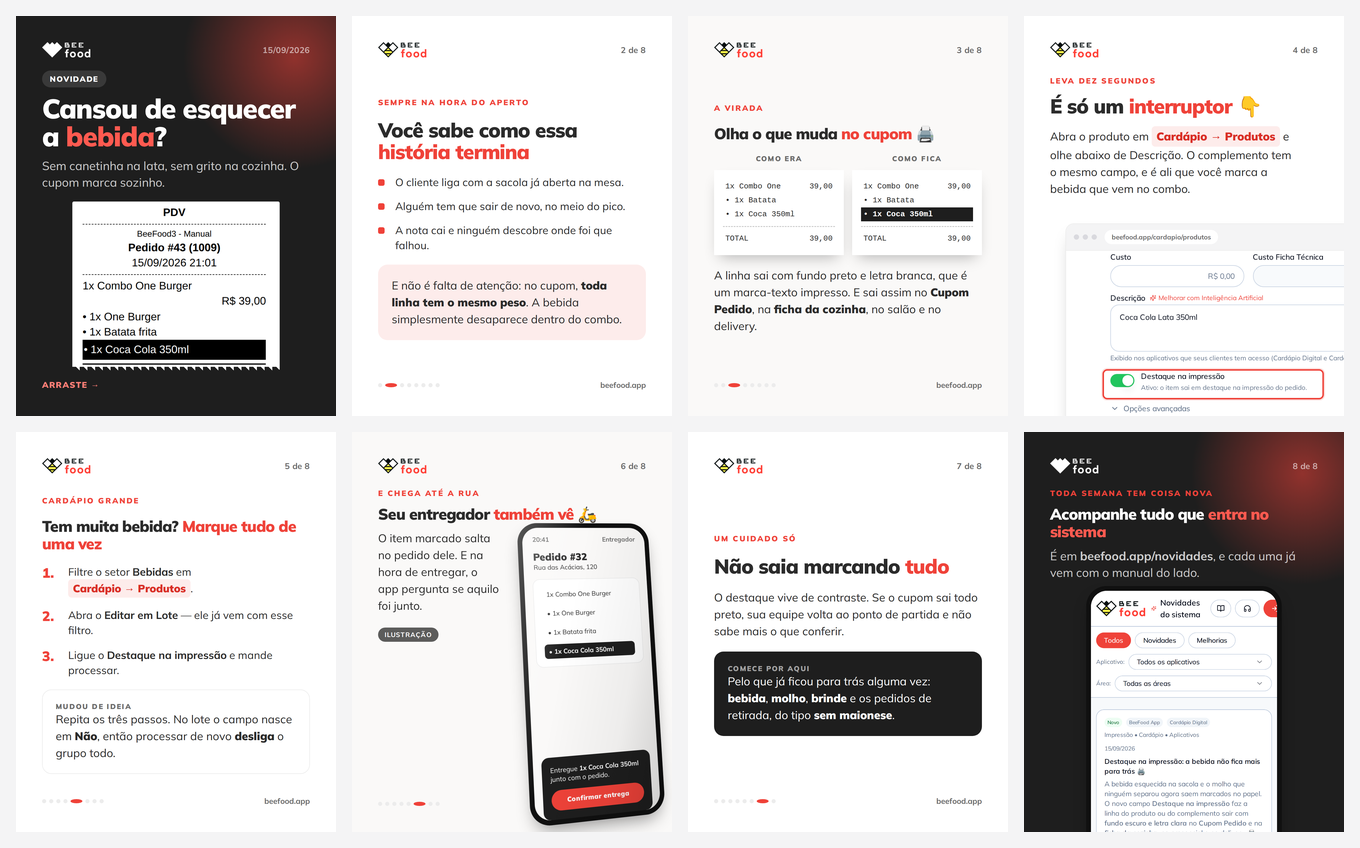
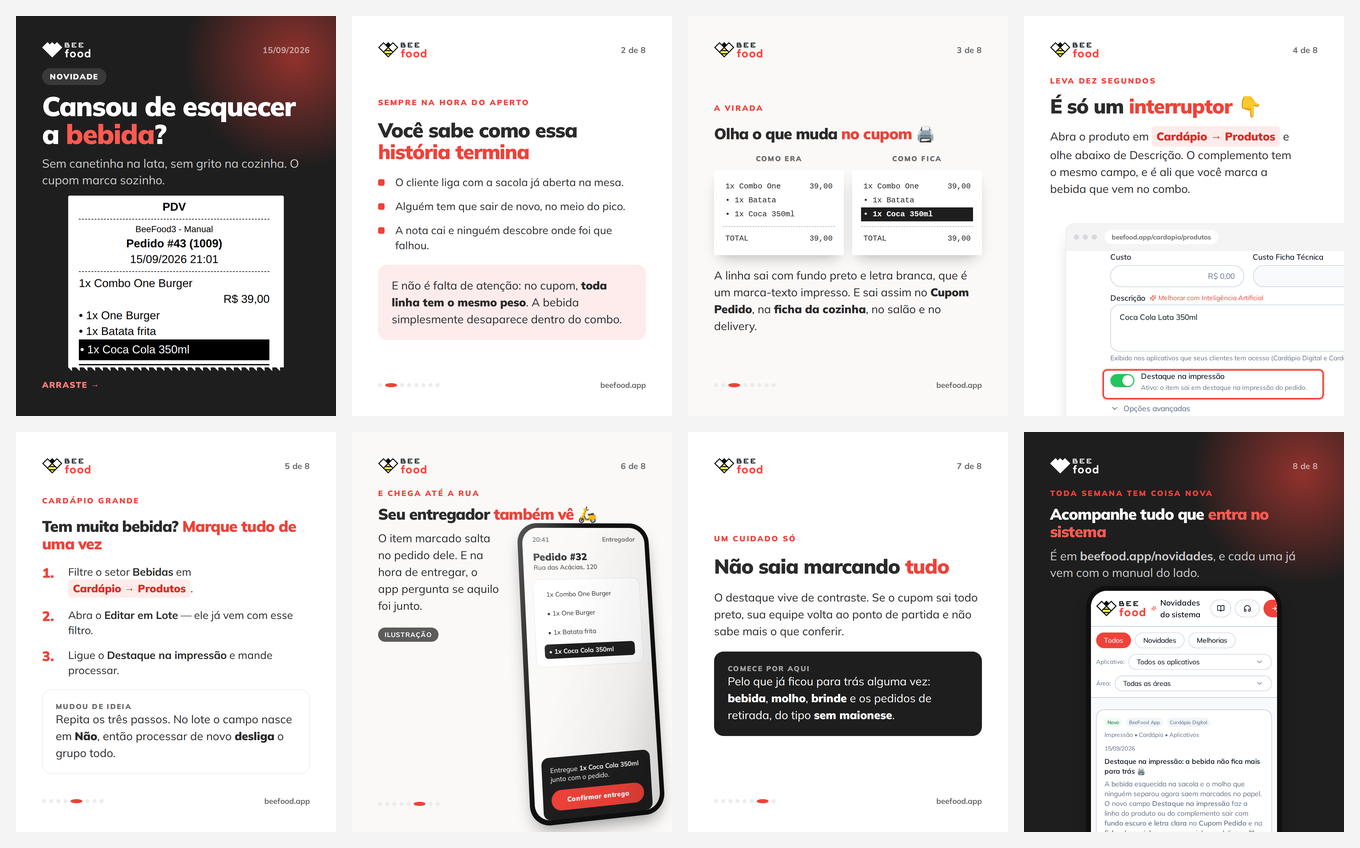
carrossel: registra a regra da faixa na memoria, na skill e no roteiro
- cupom da capa vai a 728 px, o maximo entre o subtitulo e o Arraste
- MEMORIA/SKILL/roteiro-e-copy ganham a secao 'onde a imagem fica na faixa'
- roteiro do exemplo explica por que o 3D mudou de slide e por que a janela do
  slide 4 continua sangrando so pela direita

Changed region(s): [[0.0309, 0.0613, 0.2162, 0.4599]]

diff --git a/carrosseis/destaque-impressao/slides/01-capa.html b/carrosseis/destaque-impressao/slides/01-capa.html
@@ -4,7 +4,7 @@
     <span class="data">15/09/2026</span>
   </div>
 
-  <div class="pilha g24" style="margin-top: 44px">
+  <div class="pilha g24" style="margin-top: 36px">
     <span class="pilula pilula--novidade">Novidade</span>
     <!-- A frase mais curta do carrossel, porque é a única que todo mundo lê. Uma
          palavra em vermelho e mais nada de grifo: emoji aqui viria como segundo
@@ -31,7 +31,7 @@
        Sozinha na faixa, a imagem vai centralizada e no maior tamanho que cabe
        (`.figura`), e reta. Encostada na direita e inclinada em 3D, como estava,
        ela deixava a metade esquerda do slide vazia e ainda saía menor. -->
-  <div class="figura" style="width: 700px">
+  <div class="figura" style="margin-top: 24px; width: 728px">
     <!-- Canto quase reto: bobina térmica não tem canto arredondado, e os 24 px
          que o .recorte traz de fábrica faziam o papel parecer cartão. -->
     <div class="recorte recorte--topo rasgado"

diff --git a/carrosseis/destaque-impressao/roteiro.md b/carrosseis/destaque-impressao/roteiro.md
@@ -38,6 +38,12 @@ mesmo, e o que sobra vai para a imagem. O emoji saiu quando "bebida" ficou
 vermelha: vermelho e emoji na mesma linha são dois grifos brigando, e o vermelho
 é o que manda o olho para a palavra que carrega o assunto.
 
+O subtítulo voltou às duas linhas — "Sem canetinha na lata, sem grito na cozinha.
+O cupom marca sozinho." Ele tinha sido encurtado para "Agora o cupom já sai com
+ela marcada" só para abrir altura para a imagem; com o cupom centralizado, as
+duas coisas couberam. O título corta até o osso, o subtítulo é onde a frase
+respira.
+
 Emoji em três dos oito slides, um em cada: 🖨 no papel, 👇 apontando o mockup e
 🛵 na rua. A capa, o custo, o lote, o limite e o CTA ficam sem — e é o vazio
 deles que faz os três funcionarem.
@@ -46,14 +52,14 @@ deles que faz os três funcionarem.
 
 | # | Arquivo | Tipo | Ideia única | Imagem |
 |---|---------|------|-------------|--------|
-| 1 | `01-capa.html` | capa com imagem | A bebida esquecida na sacola tem fim | cupom real com **uma** linha destacada, em 3D e com a base serrilhada — `imagens-puras/01-cupom-bebida.png` |
+| 1 | `01-capa.html` | capa com imagem | A bebida esquecida na sacola tem fim | cupom real com **uma** linha destacada, centralizado em `.figura` e com a base serrilhada — `imagens-puras/01-cupom-bebida.png` |
 | 2 | `02-custo.html` | texto | Você já sabe como termina quando o item fica para trás | — |
 | 3 | `03-no-papel.html` | antes × depois | O contraste é o que faz a linha ser vista | cupom desenhado em CSS (o "antes" não existe como captura) |
 | 4 | `04-onde-ligar.html` | mockup de computador | Um interruptor abaixo de Descrição | `imagens-puras/03-modal-janela.png` em `.sangria--janela`, com `.realce` no campo |
 | 5 | `05-em-lote.html` | passos | Editar em Lote marca o setor inteiro | — |
-| 6 | `06-na-rua.html` | mockup de celular 3D (ilustração) | O app do entregador pede confirmação | tela desenhada em `.tela-app`, em `.g3d`, com `.selo-ilustracao` |
+| 6 | `06-na-rua.html` | mockup de celular 3D, com texto ao lado (ilustração) | O app do entregador pede confirmação | tela desenhada em `.tela-app`, em `.g3d`, com `.selo-ilustracao` |
 | 7 | `07-limite.html` | texto | Marcar tudo anula o efeito | — |
-| 8 | `08-cta.html` | mockup de celular + CTA | Toda novidade fica registrada, com manual | `imagens-puras/04-novidades-celular.png` em sangria |
+| 8 | `08-cta.html` | mockup de celular + CTA | Toda novidade fica registrada, com manual | `imagens-puras/04-novidades-celular.png` em sangria centralizada, 660 px |
 
 Cinco dos oito slides têm imagem, e a capa é um deles.
 
@@ -79,11 +85,17 @@ mexer no eixo X, que o `.recorte--topo` não faz.
 
 O corte fecha em `680 / 554`: é a última janela que cabe, entre o traço duplo que
 fecha o bloco de itens (y 535) e o "Subtotal" (y 557). `.rasgado` come os 13 px
-finais e transforma o corte em papel destacado. E `.cena3d` + `.g3d--direita`
-tiram o papel do plano: reto sobre fundo escuro ele parecia arquivo colado; em
-perspectiva, com luz de cima à esquerda, vira objeto fotografado na bancada. O
-canto é de 5 px porque bobina térmica não tem canto arredondado — os 24 px de
-fábrica do `.recorte` faziam o papel parecer cartão.
+finais e transforma o corte em papel destacado. O canto é de 5 px porque bobina
+térmica não tem canto arredondado — os 24 px de fábrica do `.recorte` faziam o
+papel parecer cartão.
+
+**E o papel fica centralizado, grande e reto.** A versão anterior encostava o
+cupom na direita e o inclinava em `.cena3d`/`.g3d--direita`: virava objeto
+fotografado na bancada, mas deixava a metade esquerda do slide vazia **e** saía
+menor, porque a inclinação come altura. Centralizado em `.figura`, o mesmo
+recorte foi a 728 px — o máximo que cabe entre o subtítulo e o "Arraste" — e
+ainda sobrou espaço para o subtítulo voltar às duas linhas que ele tinha. O 3D foi para o slide 6, que é o único com conteúdo do lado
+do mockup.
 
 A faixa preta cai no terço de baixo do papel, porque antes dela há 454 px de
 cabeçalho de cupom. Dá para subir cortando o topo também, mas aí o topo vira
@@ -96,16 +108,32 @@ seria preciso desmarcar o produto, imprimir, remarcar. Bobina térmica em
 monoespaçada é claramente desenho, então não engana — e o cupom real já apareceu
 na capa, em tamanho grande.
 
-**Um mockup 3D, não três.** O celular do slide 6 é o único em perspectiva. Ali o
-texto da tela é grande e ninguém precisa ler rótulo de interface, então o giro só
-ajuda. No slide 4 o leitor tem que achar o interruptor: a face que recua come
-contraste justo onde está a informação, e o mockup fica reto. No slide 8 também
-reto, para o 3D não virar efeito padrão. Um a cada dois ou três mockups é o que
-dá ritmo sem chamar atenção para si.
+**Um mockup 3D, e ele é o único que divide a faixa.** O celular do slide 6 é o
+único em perspectiva, e para isso o corpo do texto desceu para uma coluna de
+412 px ao lado dele — é o texto ao lado que dá licença para o aparelho sair do
+centro e girar. Ali o texto da tela é grande e ninguém precisa ler rótulo de
+interface, então o giro só ajuda.
+
+No slide 4 o leitor tem que achar o interruptor: a face que recua come contraste
+justo onde está a informação, e o mockup fica reto. No slide 8 o celular está
+sozinho na faixa, então em vez de girar ele **centraliza e cresce** — de 586 para
+660 px, com recuo igual dos dois lados. Encostado na direita, como estava, ele
+deixava um vão à esquerda e mostrava a página de novidades menor.
+
+**Celular que termina dentro do slide mostra a base da tela.** Com 462 px de
+largura e `top: 300px`, o aparelho do slide 6 acaba em y 1335, dentro da arte. Aí
+a barra "Confirmar entrega" precisou ir para a base da tela (`flex: 1` no corpo,
+`margin-top: auto` no aviso) e a lista ganhou a quarta linha do pedido: no lugar
+onde a tela sangrava pela base, esse terço final ficava fora do slide e o aviso
+podia ficar no fluxo. Sem esse ajuste a tela fica com 300 px de branco embaixo e
+parece render pela metade.
 
 **O mockup de computador sangra pela direita.** O recorte do modal tem 605 px
 lógicos e é exibido a 1120 px (1,85×): o rótulo *Destaque na impressão* sai com
 27 px na arte, legível no feed. O painel inteiro na mesma janela sairia a 0,8×.
+Aqui a sangria é assimétrica de propósito, e não por descuido: ela é 40 px mais
+larga que o slide, e o que fica de fora tem de ser a direita, porque o campo e o
+interruptor que o slide quer mostrar estão à esquerda da janela.
 O `.realce` foi posicionado por medida do arquivo (o interruptor verde está em
 y 0,70–0,77), não no olho — as duas primeiras tentativas circularam a linha
 *"Exibido nos aplicativos…"*, que é a de cima.
@@ -121,8 +149,10 @@ só o que a novidade afirma — item em evidência no pedido e confirmação na 
 > item destacado e na confirmação de entrega. Quando chegar, substitui a
 > ilustração do slide 6 e o selo sai.
 
-**Sem rodapé no slide 4.** A janela em sangria cobre a base inteira do slide, e
-os pontos desenhados por cima dela pareciam sujeira. O "4 de 8" do topo resolve.
+**Sem rodapé nos slides 4 e 8.** A janela em sangria cobre a base inteira do
+slide 4, e os pontos desenhados por cima dela pareciam sujeira; o "4 de 8" do topo
+resolve. No 8, o celular centralizado passou a cobrir a base — e o
+`beefood.app/novidades` já está no subtítulo, em negrito, que é onde ele é lido.
 
 ## Capturas
 

diff --git a/.cursor/skills/carrossel-novidades/references/MEMORIA-CARROSSEIS.md b/.cursor/skills/carrossel-novidades/references/MEMORIA-CARROSSEIS.md
@@ -4,14 +4,14 @@ Memória própria desta skill. Aprendizado de **captura genérica** do BeeFood
 continua na `MEMORIA-GERAL.md`, escrita por quem trabalha nos manuais — aqui só
 entra o que é de carrossel.
 
-Última atualização: 2026-09-15 (4ª rodada: cupom capturado só com a bebida
-destacada, serrilha de bobina, mockup 3D intercalado e vermelho legível na capa).
+Última atualização: 2026-09-16 (5ª rodada: imagem sozinha na faixa vai
+centralizada e grande, e o 3D passou a exigir conteúdo ao lado).
 
 ## Índice
 
 | Carrossel | Novidade | Pasta | Formato | Estado |
 |-----------|----------|-------|---------|--------|
-| Destaque na impressão | [15/09/2026](https://beefood.app/novidades/destaque-impressao) | `carrosseis/destaque-impressao/` | 4:5, 8 slides | ✅ renderizado (4ª versão) |
+| Destaque na impressão | [15/09/2026](https://beefood.app/novidades/destaque-impressao) | `carrosseis/destaque-impressao/` | 4:5, 8 slides | ✅ renderizado (5ª versão) |
 
 ## Texto: publicação, não changelog
 
@@ -138,6 +138,36 @@ Consequência de projeto: o canto superior direito do slide leva só coisa
 dispensável (a data, o "3 de 7"). As faixas largas de topo e base valem para o
 **story (9:16)**, e o `--guias` agora pinta a zona certa de cada formato.
 
+## Onde a imagem fica na faixa
+
+Regra que organiza todas as outras de arte, e que só ficou clara na 5ª rodada:
+
+> **Imagem sozinha na faixa vai centralizada e no maior tamanho que couber, e
+> reta. Encostar numa borda e inclinar só se paga quando o outro lado tem
+> conteúdo.**
+
+Era o que estava errado na capa: o cupom encostado na direita e girado em 3D
+deixava a metade esquerda do slide vazia **e** saía menor do que podia, porque a
+inclinação come altura. Centralizado e reto, o mesmo recorte cresceu e a capa
+recuperou o subtítulo de duas linhas que tinha sido cortado para dar espaço.
+
+Como isso se traduz nas classes:
+
+| Situação | Classe | Posição |
+|----------|--------|---------|
+| imagem ocupa a faixa toda, sem sangrar | `.figura` | no fluxo, `align-self: center`, a maior largura que a base aceita |
+| mockup sozinho na faixa, sangrando | `.sangria` com recuo **igual** dos dois lados | centralizado, sangrando só pela base |
+| mockup dividindo a faixa com texto | `.sangria` encostada + `.cena3d`/`.g3d` | de um lado, e aí o 3D tem função |
+
+Sangrar não é o mesmo que ficar torto: o celular do CTA sangrava pela base *e*
+estava encostado na direita sem nada do outro lado. Centralizar o recuo e subir
+de 586 para 660 px de largura fez o texto da página caber legível, e o rodapé
+saiu porque o aparelho passou a cobrir a base inteira.
+
+E o caminho inverso vale: para manter o 3D no slide do entregador, o corpo do
+texto **desceu para uma coluna de 412 px ao lado do celular**. Foi o que deu
+licença para o aparelho sair do centro.
+
 ## Mockup em sangria — o padrão
 
 Aparelho inteiro dentro da margem sai com ~420 px de largura numa arte de 1080,
@@ -211,11 +241,12 @@ entrou e foi mordido pelos dentes.
 - a máscara **come a sombra**. Em fundo escuro isso não custa nada (sombra escura
   em fundo escuro não aparece); em slide claro, custa, e aí é melhor corte reto.
 
-**O papel é objeto na bancada, não elemento sangrado.** 700 px de largura,
-`top: 600px`, `right: 40px`, inteiro dentro do slide, canto de 5 px (bobina
-térmica não tem canto arredondado, e os 24 px que o `.recorte` traz de fábrica
-faziam o papel parecer cartão). A regra da sangria continua valendo para mockup
-de aparelho — não para recorte de papel na capa.
+**O papel é objeto na bancada, não elemento sangrado** — e, estando sozinho na
+faixa, vai **centralizado**: `.figura` com 728 px de largura (o máximo que cabe
+entre o subtítulo e o "Arraste"), inteiro dentro do slide, canto de 5 px (bobina térmica não tem canto arredondado, e os 24 px que o
+`.recorte` traz de fábrica faziam o papel parecer cartão). A versão encostada na
+direita e girada em 3D deixava a metade esquerda vazia e saía menor. A regra da
+sangria continua valendo para mockup de aparelho — não para recorte de papel.
 
 **A faixa preta cai no terço de baixo, e está tudo bem.** Antes dela há 454 px de
 cabeçalho de cupom (PDV, empresa, número, data), ou seja ~40% da tira. Dá para
@@ -236,11 +267,16 @@ corte e precisa de serrilha; não compensa. O olho vai na faixa de qualquer jeit
   O 3× existe porque o print entra reduzido na moldura e o 2× já mostrava serra
   no texto pequeno.
 
-## Mockup 3D — para intercalar, não para tudo
+## Mockup 3D — só quando divide a faixa
 
 Oito slides com o mesmo mockup reto viram catálogo. `.cena3d` + `.g3d` põem o
 mockup em perspectiva: o pai dá o ponto de fuga e o filho gira. Sem o
 `perspective` no pai, `rotateY` sai como achatamento, não como profundidade.
+
+**A condição de entrada é a de cima:** o mockup precisa estar dividindo a faixa
+com alguma coisa. Imagem sozinha fica centralizada, grande e reta. Inclinar uma
+imagem que tem o slide todo para si troca tamanho por efeito, e tamanho é o que
+faz a imagem funcionar no feed.
 
 Três coisas que fazem o 3D ler como 3D:
 
@@ -258,8 +294,14 @@ estar caindo para fora do slide — foi o primeiro render desta rodada.
 **Onde não usar:** no slide em que o leitor precisa ler rótulo de interface. A
 face que recua come contraste justo onde está a informação. Neste carrossel o
 slide 4 (achar o interruptor) ficou reto e o slide 6 (ilustração do app, texto
-grande) ficou em 3D — um 3D a cada dois ou três mockups é o suficiente para dar
-ritmo.
+grande, com coluna de texto ao lado) ficou em 3D — um 3D a cada dois ou três
+mockups é o suficiente para dar ritmo.
+
+**Efeito colateral útil:** aparelho que termina dentro do slide mostra a base da
+tela, e aí a barra de ação da ilustração tem de ir para lá (`flex: 1` no
+`.tela-app__corpo` e `margin-top: auto` no `.tela-app__aviso`). Sem isso a tela
+fica com um vazio de 300 px embaixo e parece render pela metade. Em mockup que
+sangra pela base é o contrário: o aviso fica no fluxo, senão sai do slide.
 
 ## Mockup de computador
 

diff --git a/.cursor/skills/carrossel-novidades/SKILL.md b/.cursor/skills/carrossel-novidades/SKILL.md
@@ -148,6 +148,23 @@ arquivo, não os slides.
 O logo não é `<img>`: use `<span class="logo"></span>` e o renderizador injeta o
 arquivo da skill.
 
+#### Onde a imagem fica na faixa
+
+A regra que manda nas outras:
+
+> **Imagem sozinha na faixa vai centralizada e no maior tamanho que couber, e
+> reta. Encostar numa borda e inclinar só se paga quando o outro lado tem
+> conteúdo.**
+
+| Situação | Como |
+|----------|------|
+| imagem ocupa a faixa toda, sem sangrar | `.figura` — no fluxo, centralizada, na maior largura que a base aceita |
+| mockup sozinho na faixa, sangrando | `.sangria` com recuo **igual** dos dois lados; sangra só pela base |
+| mockup dividindo a faixa com texto | `.sangria` encostada + `.cena3d`/`.g3d`; é aqui que o 3D tem função |
+
+Sangrar não é ficar torto: mockup encostado num lado com o outro lado vazio troca
+tamanho por nada.
+
 #### Mockup em sangria
 
 Aparelho inteiro dentro da margem sai com ~420 px numa arte de 1080, e a tela
@@ -166,16 +183,23 @@ escala, e o corte passa a sensação de que a tela continua.
   `.navegador__tela` e **meça a posição no arquivo** — estimar na miniatura
   circula a linha errada, já aconteceu duas vezes.
 
-#### Mockup 3D, para intercalar
+#### Mockup 3D, só quando divide a faixa
 
 `.cena3d` no contêiner e `.g3d .g3d--direita` (ou `--esquerda`) no mockup põem o
 aparelho em perspectiva. O nome é pela borda que **recua**: objeto encostado na
 direita do slide usa `--direita`, e a quina de fora afunda.
 
+- **Só com conteúdo ao lado.** É a coluna de texto ao lado que dá licença para o
+  mockup sair do centro e girar. Sozinho na faixa, ele vai centralizado, grande e
+  reto — inclinar ali troca tamanho por efeito.
 - **Um a cada dois ou três mockups.** Serve para dar ritmo; em todos, vira efeito.
 - **Nunca no slide em que o leitor precisa ler rótulo da interface.** A face que
   recua come contraste justo onde está a informação. Slide de "onde ligar" fica
   reto; slide de ilustração ou de resultado aceita 3D.
+- **Aparelho que termina dentro do slide mostra a base da tela.** Aí a barra de
+  ação da ilustração vai para lá (`flex: 1` no `.tela-app__corpo` e
+  `margin-top: auto` no `.tela-app__aviso`), senão sobra um vazio de 300 px e a
+  tela parece render pela metade. Em mockup que sangra pela base é o contrário.
 - **`.rasgado`** serrilha a base do recorte, para corte de papel não parecer erro
   de render. Vai no **mesmo elemento** do `.g3d` (a máscara recorta box-shadow e
   pseudo-elemento junto) e **come a sombra** — o que é irrelevante em fundo
@@ -227,8 +251,9 @@ fato → ângulo → slide.
 2. Abra em **tamanho real** os slides com print. Miniatura esconde texto ilegível
    e esconde realce fora de lugar — os dois erros mais comuns.
 3. Confira que o mockup em sangria não cobriu nenhuma linha de texto nem os
-   pontos do rodapé, e que o mockup em 3D não caiu no slide que pede leitura de
-   rótulo.
+   pontos do rodapé, que o mockup em 3D não caiu no slide que pede leitura de
+   rótulo, e que nenhuma imagem sozinha na faixa ficou encostada numa borda —
+   sozinha, ela vai centralizada e grande.
 4. Toda afirmação do slide está no manual ou na novidade? Se não está em nenhum
    dos dois, ou você confere no sistema, ou corta. Toda tela desenhada tem selo?
 5. Registre o que aprendeu em
@@ -272,7 +297,9 @@ carrosseis/<slug>/
   recortar até sobrar um destaque, gere uma captura nova em que só ele apareça.
 - **Metade dos slides, no mínimo, tem imagem.** Três slides de texto seguidos é
   sinal de que dois deveriam virar um.
-- **Mockup em sangria**, não aparelho inteiro no meio do slide.
+- **Mockup em sangria**, não aparelho inteiro pequeno no meio do slide. E se ele
+  está sozinho na faixa, a sangria vai centralizada, com recuo igual dos dois
+  lados.
 - **Número só se ele existir** na novidade ou no manual. "Reduz 30% dos erros"
   é invenção, e invenção em post de produto volta como reclamação.
 - **Números normais** (`1.`, `2.`, `3.`) — nunca ①②③. Mesma regra dos manuais.

diff --git a/.cursor/skills/carrossel-novidades/references/roteiro-e-copy.md b/.cursor/skills/carrossel-novidades/references/roteiro-e-copy.md
@@ -60,11 +60,22 @@ assunto ("a **bebida**") dá o ponto de entrada do olho. Duas palavras vermelhas
 na mesma frase não destacam nada, e emoji junto do vermelho é grifo em cima de
 grifo — escolha um.
 
+**O subtítulo é onde a frase respira.** O título corta até o osso; o subtítulo
+recupera o tom, e pode ocupar duas linhas: "Sem canetinha na lata, sem grito na
+cozinha. O cupom marca sozinho." A versão de uma linha só ("Agora o cupom já sai
+com ela marcada") tinha sido encurtada para abrir espaço para a imagem — e a
+imagem, centralizada, coube junto com as duas linhas. Aperte a imagem antes de
+apertar o subtítulo.
+
 **A imagem da capa mostra UM destaque.** A primeira versão desta capa usava o
 cupom inteiro, com duas linhas em fundo preto — e aí a imagem dizia o contrário
 do slide do limite ("não saia marcando tudo"). Quando a captura que existe não dá
 para recortar até sobrar um destaque só, gere uma captura nova em que só ele
 aparece; desenhar o cupom é o último recurso.
+
+**E ela fica centralizada e grande.** Imagem sozinha na faixa, encostada numa
+borda, deixa metade do slide vazia e sai menor do que podia. Inclinar em 3D só se
+paga quando tem conteúdo do outro lado.
 
 ## Estrutura que funciona (6 a 8 slides)
 
